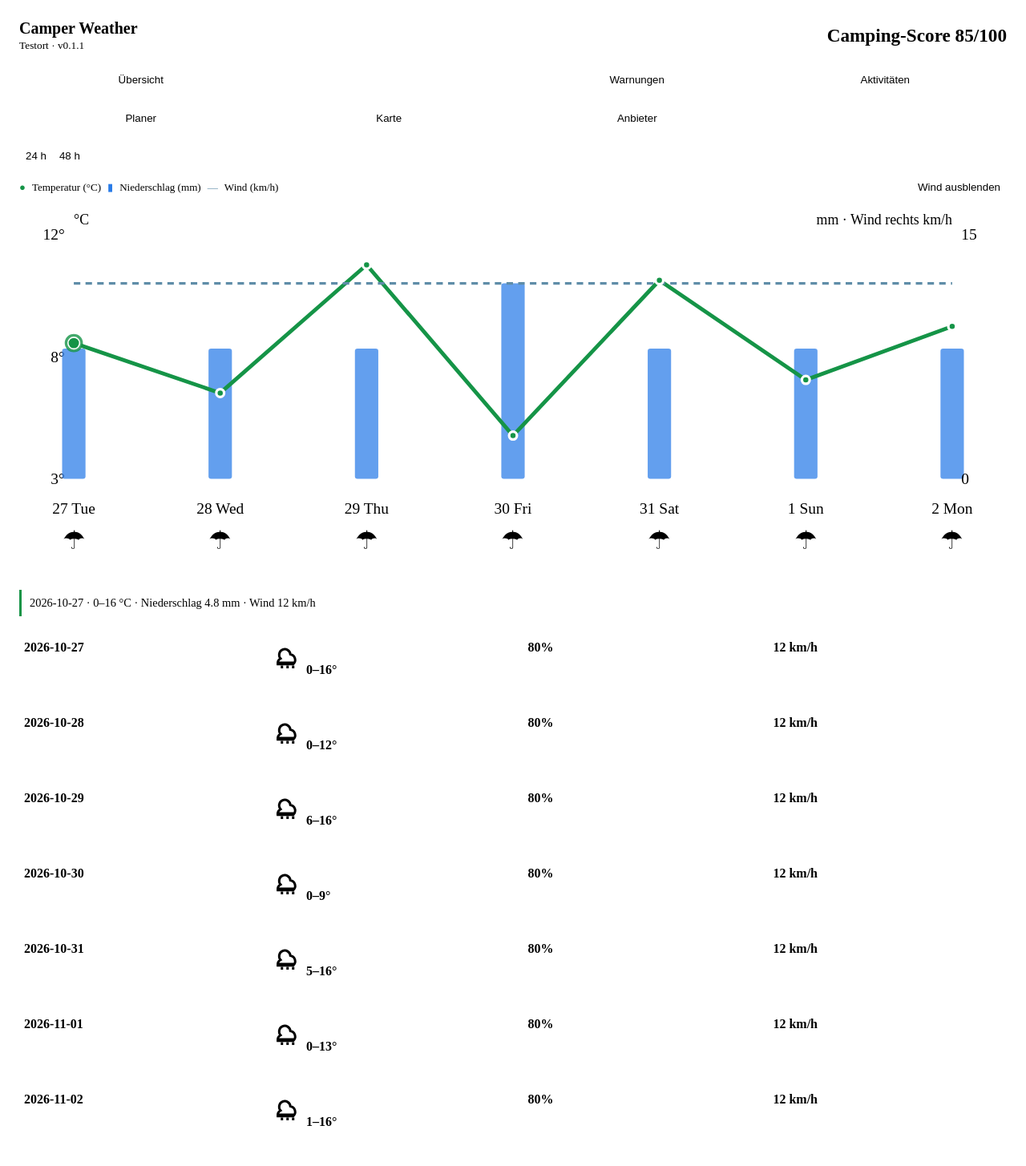
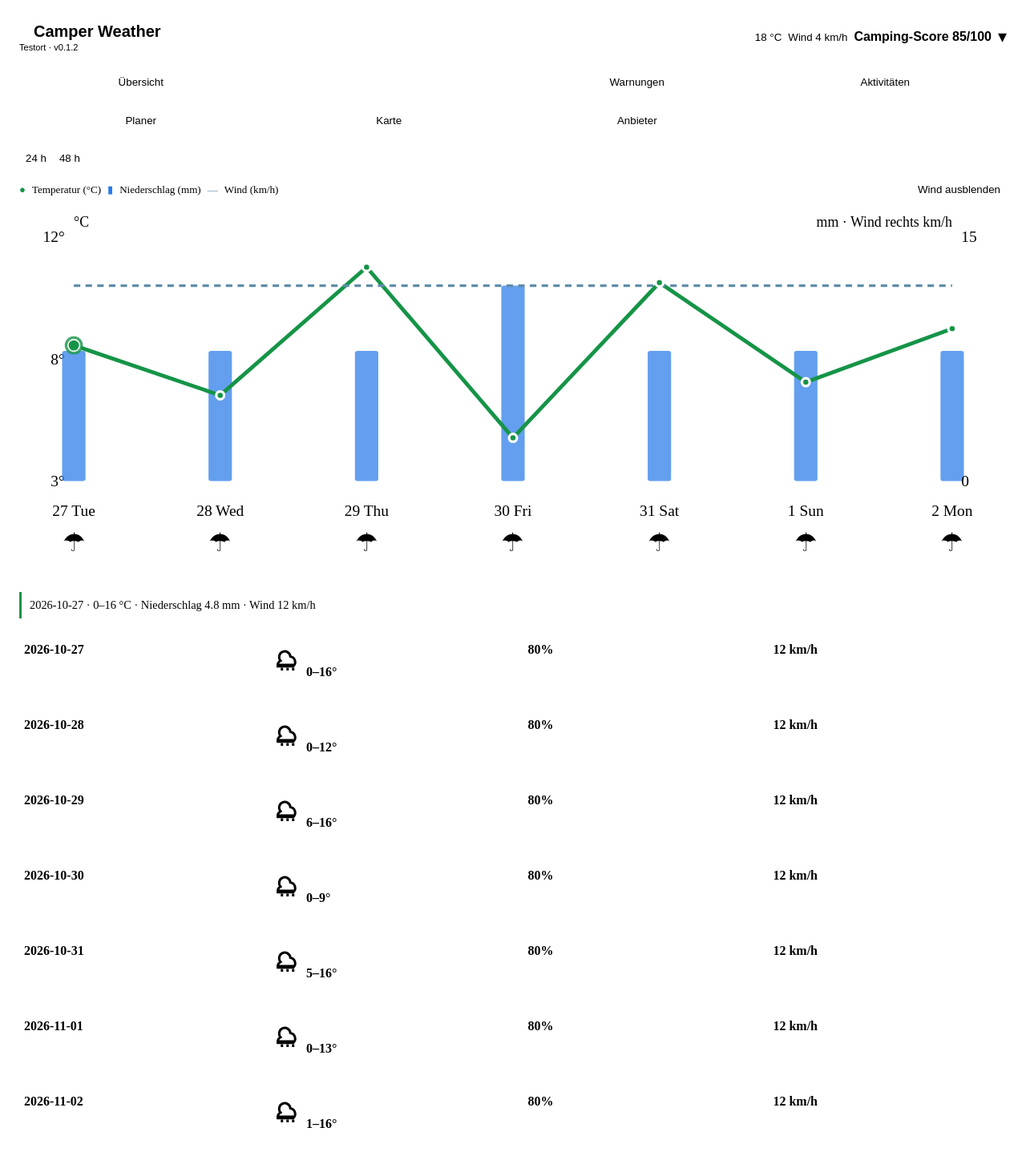
feat: add collapsed camper weather card

diff --git a/custom_components/camper_weather/www/camper-weather-card.js b/custom_components/camper_weather/www/camper-weather-card.js
@@ -1,5 +1,5 @@
-/* Camper Weather card v0.1.1. No credentials or GPS history are stored here. */
-const VERSION = "0.1.1";
+/* Camper Weather card v0.1.2. No credentials or GPS history are stored here. */
+const VERSION = "0.1.2";
 const CARD_TYPE = "camper-weather-card";
 const TABS = ["Übersicht", "Vorhersage", "Warnungen", "Aktivitäten", "Planer", "Karte", "Anbieter"];
 const ACTIVITIES = [["walking", "Spazieren"], ["hiking", "Wandern"], ["cycling", "Fahrrad"], ["ebike", "E-Bike"], ["jogging", "Joggen"], ["skiing", "Skifahren"], ["swimming", "Schwimmen"], ["barbecue", "Grillen"], ["fishing", "Angeln"]];
@@ -31,7 +31,7 @@ const loadMapLibre = () => {
 class CamperWeatherCard extends HTMLElement {
   static getConfigElement() { return document.createElement("camper-weather-card-editor"); }
   static getStubConfig() { return {}; }
-  setConfig(config) { this.config = {...config}; this._tabIndex = Number.isInteger(this._tabIndex) ? this._tabIndex : Number(config.default_view || 0); this._draft = this._draft || {}; this._ensureShell(); }
+  setConfig(config) { this.config = {...config}; this._tabIndex = Number.isInteger(this._tabIndex) ? this._tabIndex : Number(config.default_view || 0); this._draft = this._draft || {}; if (this._expanded == null) this._expanded = false; this._ensureShell(); }
   set hass(value) {
     const connectionChanged = this._hass?.connection !== value?.connection;
     this._hass = value;
@@ -65,14 +65,17 @@ class CamperWeatherCard extends HTMLElement {
     if (state.active) queueMicrotask(() => this.querySelector(`[data-state-key="${CSS.escape(state.active)}"]`)?.focus({preventScroll:true}));
   }
   _isEditing() { const active = document.activeElement; return Boolean(active && this.contains(active) && active.matches("input,select,textarea")); }
+  _toggleExpanded() { this._expanded = !this._expanded; if (!this._expanded) this._destroyMap(); this._ensureShell(); }
+  _compactStatus(data) { const status = data?.safety_status; return ["green", "yellow", "orange", "red"].includes(status) ? status : "gray"; }
   _ensureShell() {
     if (!this.config) return;
     if (!this.querySelector(".wrap")) {
-      this.innerHTML = `<ha-card><div class="wrap"><header><div><h2>Camper Weather</h2><small class="subtitle"></small></div><strong class="score"></strong></header><nav class="nav"></nav><select class="mobile-nav" aria-label="Ansicht"></select><section class="panel"></section></div></ha-card>`;
+      this.innerHTML = `<ha-card><div class="wrap"><button type="button" class="card-header" data-card-toggle aria-expanded="false"><span class="card-heading"><span class="card-title"><span class="status-dot" aria-hidden="true"></span><h2>Camper Weather</h2></span><small class="subtitle"></small></span><span class="card-summary"><span class="summary-temperature"></span><span class="summary-wind"></span><strong class="score"></strong><span class="expand-icon" aria-hidden="true">▸</span></span></button><div class="card-body" hidden><nav class="nav"></nav><select class="mobile-nav" aria-label="Ansicht"></select><section class="panel"></section></div></div></ha-card>`;
       this._style(); this.addEventListener("click", (event) => this._click(event)); this.addEventListener("change", (event) => this._change(event)); this.addEventListener("input", (event) => this._input(event)); this.addEventListener("keydown", (event) => this._keydown(event));
       const beginInteraction = (event) => {
         const control = event.target.closest?.("select,input,textarea,summary,button");
         if (!control) return;
+        if (control.matches("[data-card-toggle]")) return;
         if (this._activeNativeSelect && this._activeNativeSelect !== control) this._finishNativeSelect(this._activeNativeSelect);
         if (this._activeTextInput && this._activeTextInput !== control && !control.matches("button")) this._finishTextInput(this._activeTextInput);
         this._interactionLock = true;
@@ -98,8 +101,17 @@ class CamperWeatherCard extends HTMLElement {
       this.addEventListener("pointercancel", (event) => { const control = event.target.closest?.("select"); if (control === this._activeNativeSelect) this._finishNativeSelect(control); });
     }
     const data = this._data || {};
+    const current = data.current || {};
+    const expanded = Boolean(this._expanded);
     this.querySelector(".subtitle").textContent = `${data.name || "Wetter"} · v${VERSION}`;
+    this.querySelector(".summary-temperature").textContent = `${current.temperature == null ? "—" : `${current.temperature} °C`}`;
+    this.querySelector(".summary-wind").textContent = `Wind ${current.wind == null ? "—" : `${current.wind} km/h`}`;
     this.querySelector(".score").textContent = `Camping-Score ${data.camping_score ?? "—"}/100`;
+    this.querySelector(".status-dot").className = `status-dot status-${this._compactStatus(data)}`;
+    const toggle = this.querySelector("[data-card-toggle]"); toggle.setAttribute("aria-expanded", String(expanded)); toggle.setAttribute("aria-label", expanded ? "Camper Weather einklappen" : "Camper Weather ausklappen");
+    this.querySelector(".expand-icon").textContent = expanded ? "▾" : "▸";
+    const body = this.querySelector(".card-body"); body.hidden = !expanded;
+    if (!expanded) return;
     const visible = this.config.visible_views || TABS.map((_, index) => index);
     const navKey = `${visible.join(",")}:${this._tabIndex}`;
     if (navKey !== this._navKey) {
@@ -110,6 +122,7 @@ class CamperWeatherCard extends HTMLElement {
     this._renderPanel();
   }
   _click(event) {
+    if (event.target.closest("[data-card-toggle]")) { this._toggleExpanded(); return; }
     const tab = event.target.closest("[data-tab]"); if (tab) { this._switchTab(Number(tab.dataset.tab)); return; }
     if (event.target.matches("[data-tab-select]")) { this._switchTab(Number(event.target.value)); return; }
     if (event.target.matches("[data-radar-frame]")) { this._radarIndex = Number(event.target.dataset.radarFrame); this._updateRadarLayer(); this._updateRadarControls(); return; }
@@ -155,6 +168,7 @@ class CamperWeatherCard extends HTMLElement {
   _destroyMap() { clearTimeout(this._mapTimeout); clearTimeout(this._radarTimer); if (this._mapResizeObserver) this._mapResizeObserver.disconnect(); if (this._mapMarker) { this._mapMarker.remove(); this._mapMarker = null; } if (this._mapInstance) { this._mapInstance.remove(); this._mapInstance = null; } this._mapRadarKey = null; }
   _renderPanel() {
     const panel = this.querySelector(".panel"); if (!panel) return;
+    if (!this._expanded) return;
     if (this._isEditing() || this._interactionLock || this._nativeSelectOpen) { this._renderPending = true; return; }
     const uiState = this._captureUiState();
     const previousTab = this._renderedTab;
@@ -293,7 +307,7 @@ class CamperWeatherCard extends HTMLElement {
   _chartTooltip(item) { const date = item.daily ? this._forecastDateKey(item.time) : `${this._forecastDateKey(item.time)} ${this._forecastTimeLabel(item.time)}`; const temperature = item.daily && item.temperature_min != null ? `${Math.round(item.temperature_min)}–${Math.round(item.temperature_max)} °C` : `${item.temperature == null ? "—" : Math.round(item.temperature)} °C`; return `${date} · ${temperature} · Niederschlag ${item.precipitation == null ? "—" : Number(item.precipitation).toFixed(1)} mm · Wind ${item.wind == null ? "—" : Math.round(item.wind)} km/h`;
   }
   _forecast(d) { const range = this._forecastRange || 24; const rows = this._forecastRows(d, range); const direct = range === 168 ? rows : rows.slice(0, 8); const rest = range === 168 ? [] : rows.slice(8); const row = (item, index) => `<details data-ui-key="forecast-${esc(item.time || index)}"><summary><span>${item.daily ? this._forecastDateKey(item.time) : this._forecastTimeLabel(item.time)}</span><b>${this._weatherIcon(item.weather_code, item.is_day)} ${item.daily && item.temperature_min != null ? `${Math.round(item.temperature_min)}–${Math.round(item.temperature_max)}°` : `${esc(item.temperature)}°`}</b><span>💧 ${esc(item.probability ?? "—")}%</span><span>💨 ${esc(item.wind ?? "—")} km/h</span></summary><p>Niederschlag ${item.precipitation == null ? "—" : `${Number(item.precipitation).toFixed(1)} mm`} · Camping ${esc(item.score ?? "—")}/100</p></details>`; return `<div class="range-buttons"><button data-forecast-range="24" class="${range === 24 ? "active" : ""}">24 h</button><button data-forecast-range="48" class="${range === 48 ? "active" : ""}">48 h</button><button data-forecast-range="168" class="${range === 168 ? "active" : ""}">7 Tage</button></div>${this._forecastChart(rows, range)}<div class="compact-forecast">${direct.map(row).join("") || "Keine Prognosedaten."}${rest.length ? `<details data-ui-key="forecast-more"><summary>Weitere Stunden anzeigen (${rest.length})</summary>${rest.map(row).join("")}</details>` : ""}</div>`; }
-  _style() { if (this.querySelector("style")) return; const style = document.createElement("style"); style.textContent = `:host{display:block}.wrap{padding:16px;overflow:hidden}header{display:flex;justify-content:space-between;align-items:center;gap:12px}h2{margin:0;font-size:1.25rem}.score{font-size:1.45rem;color:var(--primary-color)}small,.muted{color:var(--secondary-text-color)}.nav{display:grid;grid-template-columns:repeat(4,minmax(0,1fr));gap:6px;margin:14px 0 10px}.nav button{min-width:0;white-space:normal;line-height:1.15;min-height:42px}.mobile-nav{display:none;width:100%;margin:12px 0}.nav button,.range-buttons button,.radar-controls button,button{border:1px solid var(--divider-color);background:var(--secondary-background-color);color:var(--primary-text-color);border-radius:8px;padding:8px;cursor:pointer}.nav button.active,.range-buttons button.active,.radar-controls button.active{background:var(--primary-color);color:var(--text-primary-color,#fff)}.hero{display:grid;grid-template-columns:auto 1fr 1fr;gap:8px;align-items:center}.weather-icon{font-size:2rem;color:var(--primary-color)}.weather-glyph{width:42px;height:42px}.temp{font-size:2.2rem;font-weight:600;grid-column:span 2}.assessment-grid{display:grid;grid-template-columns:repeat(2,minmax(0,1fr));gap:8px;margin-top:10px}.assessment{padding:10px;border-radius:8px;background:var(--secondary-background-color);display:grid;gap:4px}.assessment strong{display:block}.safety-red{border-left:4px solid var(--error-color,#b3261e)}.safety-orange,.safety-yellow{border-left:4px solid var(--warning-color,#a15c00)}.safety-gray{border-left:4px solid var(--secondary-text-color)}.next-risk{overflow-wrap:anywhere}.chips{display:flex;flex-wrap:wrap;gap:6px;margin-top:10px}.risk,.warning,.recommendation,.plan{padding:10px;margin:7px 0;border-radius:8px;background:var(--secondary-background-color)}details{margin:10px 0}summary{cursor:pointer;font-weight:600;padding:6px 0}.risk.critical,.bad,.error{color:var(--error-color,#b3261e)}.forecast-toolbar{display:flex;align-items:center;justify-content:space-between;gap:8px;flex-wrap:wrap;margin:8px 0}.chart-legend{display:flex;gap:8px;flex-wrap:wrap;font-size:.82rem}.legend-temp{color:#159447}.legend-rain{color:#287be8}.legend-wind{color:#5f8da8}.chart-wrap{width:100%;overflow:hidden;background:var(--secondary-background-color);border-radius:8px}.chart-wrap svg{display:block;width:100%;height:auto;min-height:220px}.chart-grid{stroke:var(--divider-color);stroke-width:1;opacity:.65}.chart-label,.axis-title{fill:var(--secondary-text-color);font-size:12px}.axis-title{font-size:11px}.chart-icon{font-size:20px}.temp-line{fill:none;stroke:#159447;stroke-width:3;stroke-linecap:round;stroke-linejoin:round}.rain-bar{fill:#287be8;opacity:.72}.wind-line{fill:none;stroke:#5f8da8;stroke-width:2;stroke-dasharray:5 4}.chart-point{cursor:pointer;outline:none}.temp-point{fill:#159447;stroke:var(--card-background-color,#fff);stroke-width:2}.chart-point:focus .temp-point,.chart-point:hover .temp-point{r:5}.chart-selected{fill:none;stroke:#159447;stroke-width:2;opacity:.8}.chart-tooltip{padding:8px 10px;margin-top:6px;border-left:3px solid #159447;background:var(--secondary-background-color);font-size:.9rem}.compact-forecast{display:grid;gap:4px;margin-top:8px}.compact-forecast details{border-bottom:1px solid var(--divider-color);padding:6px}.compact-forecast>details{border-bottom:0}.compact-forecast>details>details:last-child{border-bottom:0}.compact-forecast summary{display:grid;grid-template-columns:1fr 1fr 1fr 1fr;gap:4px;cursor:pointer}.score-pill{float:right;font-weight:600}.good{color:var(--success-color,#188038)}.warn{color:var(--warning-color,#a15c00)}.unknown{color:var(--secondary-text-color)}.form{display:grid;grid-template-columns:repeat(2,minmax(0,1fr));gap:10px}.form label{display:grid;gap:4px}select,input{border:1px solid var(--divider-color);background:var(--secondary-background-color);color:var(--primary-text-color);border-radius:8px;padding:8px;min-width:0}.location-search{display:flex;gap:6px;margin-top:8px}.location-search input{flex:1}.location-results{display:grid;gap:5px;margin-top:6px}.map-container{height:320px;border-radius:10px;overflow:hidden;background:var(--secondary-background-color)}.map-loading,.map-fallback{display:grid;place-content:center;height:100%;text-align:center;padding:12px}.map-attribution{font-size:.75rem;margin-top:4px;color:var(--secondary-text-color)}.radar-controls{display:flex;align-items:center;gap:6px;flex-wrap:wrap;margin-top:8px}.radar-controls input{width:110px}.provider-list{display:grid;gap:7px}.provider-list article{display:grid;grid-template-columns:1fr auto;gap:4px;padding:10px;border-radius:8px;background:var(--secondary-background-color)}.provider-list small{grid-column:1/-1}@media(max-width:700px){.wrap{padding:12px}.nav{grid-template-columns:repeat(2,minmax(0,1fr))}.assessment-grid{grid-template-columns:1fr}.mobile-nav{display:none}.form{grid-template-columns:1fr}.compact-forecast summary{grid-template-columns:1fr 1fr}.compact-forecast summary span:nth-child(n+3){display:none}.chart-legend{font-size:.74rem;gap:5px}.chart-wrap svg{min-height:205px}.map-container{height:280px}}`; this.appendChild(style); }
+  _style() { if (this.querySelector("style")) return; const style = document.createElement("style"); style.textContent = `:host{display:block}.wrap{padding:16px;overflow:hidden}.card-header{width:100%;display:flex;justify-content:space-between;align-items:center;gap:12px;text-align:left;border:0;background:transparent;color:var(--primary-text-color);padding:0;min-height:44px}.card-heading,.card-summary,.card-title{display:flex;align-items:center;gap:8px;min-width:0}.card-heading{display:grid;gap:2px}.card-title h2{margin:0;font-size:1.25rem}.card-summary{justify-content:flex-end;flex-wrap:wrap}.card-summary>span,.card-summary>strong{white-space:nowrap}.expand-icon{font-size:1.35rem;color:var(--secondary-text-color);line-height:1}.status-dot{width:10px;height:10px;flex:none;border-radius:50%;background:var(--secondary-text-color)}.status-green{background:var(--success-color,#188038)}.status-yellow{background:#d99b00}.status-orange{background:#e06b00}.status-red{background:var(--error-color,#b3261e)}.status-gray{background:var(--secondary-text-color)}.score{font-size:1rem;color:var(--primary-color)}small,.muted{color:var(--secondary-text-color)}.nav{display:grid;grid-template-columns:repeat(4,minmax(0,1fr));gap:6px;margin:14px 0 10px}.nav button{min-width:0;white-space:normal;line-height:1.15;min-height:42px}.mobile-nav{display:none;width:100%;margin:12px 0}.nav button,.range-buttons button,.radar-controls button,button{border:1px solid var(--divider-color);background:var(--secondary-background-color);color:var(--primary-text-color);border-radius:8px;padding:8px;cursor:pointer}.card-header{border:0;background:transparent;padding:0}.nav button.active,.range-buttons button.active,.radar-controls button.active{background:var(--primary-color);color:var(--text-primary-color,#fff)}.hero{display:grid;grid-template-columns:auto 1fr 1fr;gap:8px;align-items:center}.weather-icon{font-size:2rem;color:var(--primary-color)}.weather-glyph{width:42px;height:42px}.temp{font-size:2.2rem;font-weight:600;grid-column:span 2}.assessment-grid{display:grid;grid-template-columns:repeat(2,minmax(0,1fr));gap:8px;margin-top:10px}.assessment{padding:10px;border-radius:8px;background:var(--secondary-background-color);display:grid;gap:4px}.assessment strong{display:block}.safety-red{border-left:4px solid var(--error-color,#b3261e)}.safety-orange,.safety-yellow{border-left:4px solid var(--warning-color,#a15c00)}.safety-gray{border-left:4px solid var(--secondary-text-color)}.next-risk{overflow-wrap:anywhere}.chips{display:flex;flex-wrap:wrap;gap:6px;margin-top:10px}.risk,.warning,.recommendation,.plan{padding:10px;margin:7px 0;border-radius:8px;background:var(--secondary-background-color)}details{margin:10px 0}summary{cursor:pointer;font-weight:600;padding:6px 0}.risk.critical,.bad,.error{color:var(--error-color,#b3261e)}.forecast-toolbar{display:flex;align-items:center;justify-content:space-between;gap:8px;flex-wrap:wrap;margin:8px 0}.chart-legend{display:flex;gap:8px;flex-wrap:wrap;font-size:.82rem}.legend-temp{color:#159447}.legend-rain{color:#287be8}.legend-wind{color:#5f8da8}.chart-wrap{width:100%;overflow:hidden;background:var(--secondary-background-color);border-radius:8px}.chart-wrap svg{display:block;width:100%;height:auto;min-height:220px}.chart-grid{stroke:var(--divider-color);stroke-width:1;opacity:.65}.chart-label,.axis-title{fill:var(--secondary-text-color);font-size:12px}.axis-title{font-size:11px}.chart-icon{font-size:20px}.temp-line{fill:none;stroke:#159447;stroke-width:3;stroke-linecap:round;stroke-linejoin:round}.rain-bar{fill:#287be8;opacity:.72}.wind-line{fill:none;stroke:#5f8da8;stroke-width:2;stroke-dasharray:5 4}.chart-point{cursor:pointer;outline:none}.temp-point{fill:#159447;stroke:var(--card-background-color,#fff);stroke-width:2}.chart-point:focus .temp-point,.chart-point:hover .temp-point{r:5}.chart-selected{fill:none;stroke:#159447;stroke-width:2;opacity:.8}.chart-tooltip{padding:8px 10px;margin-top:6px;border-left:3px solid #159447;background:var(--secondary-background-color);font-size:.9rem}.compact-forecast{display:grid;gap:4px;margin-top:8px}.compact-forecast details{border-bottom:1px solid var(--divider-color);padding:6px}.compact-forecast>details{border-bottom:0}.compact-forecast>details>details:last-child{border-bottom:0}.compact-forecast summary{display:grid;grid-template-columns:1fr 1fr 1fr 1fr;gap:4px;cursor:pointer}.score-pill{float:right;font-weight:600}.good{color:var(--success-color,#188038)}.warn{color:var(--warning-color,#a15c00)}.unknown{color:var(--secondary-text-color)}.form{display:grid;grid-template-columns:repeat(2,minmax(0,1fr));gap:10px}.form label{display:grid;gap:4px}select,input{border:1px solid var(--divider-color);background:var(--secondary-background-color);color:var(--primary-text-color);border-radius:8px;padding:8px;min-width:0}.location-search{display:flex;gap:6px;margin-top:8px}.location-search input{flex:1}.location-results{display:grid;gap:5px;margin-top:6px}.map-container{height:320px;border-radius:10px;overflow:hidden;background:var(--secondary-background-color)}.map-loading,.map-fallback{display:grid;place-content:center;height:100%;text-align:center;padding:12px}.map-attribution{font-size:.75rem;margin-top:4px;color:var(--secondary-text-color)}.radar-controls{display:flex;align-items:center;gap:6px;flex-wrap:wrap;margin-top:8px}.radar-controls input{width:110px}.provider-list{display:grid;gap:7px}.provider-list article{display:grid;grid-template-columns:1fr auto;gap:4px;padding:10px;border-radius:8px;background:var(--secondary-background-color)}.provider-list small{grid-column:1/-1}@media(max-width:700px){.wrap{padding:12px}.card-header{align-items:flex-start}.card-summary{justify-content:flex-start;gap:5px}.card-summary>span,.card-summary>strong{white-space:normal}.nav{grid-template-columns:repeat(2,minmax(0,1fr))}.assessment-grid{grid-template-columns:1fr}.mobile-nav{display:none}.form{grid-template-columns:1fr}.compact-forecast summary{grid-template-columns:1fr 1fr}.compact-forecast summary span:nth-child(n+3){display:none}.chart-legend{font-size:.74rem;gap:5px}.chart-wrap svg{min-height:205px}.map-container{height:280px}}`; this.appendChild(style); }
 }
 
 class CamperWeatherCardEditor extends HTMLElement {

diff --git a/frontend/collapsible-fixture.html b/frontend/collapsible-fixture.html
@@ -1,0 +1,14 @@
+<!doctype html><meta charset="utf-8"><title>Camper Weather collapsible fixture</title>
+<camper-weather-card></camper-weather-card>
+<script src="/custom_components/camper_weather/www/camper-weather-card.js"></script>
+<script>
+  const card = document.querySelector("camper-weather-card");
+  let snapshot = {entry_id:"fixture", name:"Wohnmobil", current:{temperature:9.9, wind:7}, camping_score:95, safety_status:"green", location:{latitude:49.2,longitude:7.0,source:"tracker"}, forecast:[], radar:{frames:[]}, recommendations:{}, risks:[], warnings:[], provider_status:{}, sources:[], errors:[], updated_at:new Date().toISOString()};
+  window.__setSnapshot = (next) => { snapshot = {...snapshot, ...next}; };
+  card.setConfig({entry_id:"fixture", default_view:0});
+  card.hass = {connection:{}, callWS: async (msg) => {
+    if (msg.type === "camper_weather/card_data") return snapshot;
+    if (msg.type === "camper_weather/location/get") return {current:{mode:"tracker"}, active:snapshot.location, destinations:[]};
+    return [];
+  }};
+</script>

diff --git a/frontend/location-fixture.html b/frontend/location-fixture.html
@@ -9,6 +9,7 @@
   window.__calls = [];
   const data = () => ({entry_id:"fixture", current:{temperature:18, apparent_temperature:18, weather_code:1, wind:4, gusts:8}, camping_score:85, location:{mode, latitude:mode === "home_zone" ? 50.1 : mode === "manual" ? 48.1 : 52.5, longitude:mode === "home_zone" ? 8.6 : mode === "manual" ? 11.6 : 13.4, source:mode, diagnostic:{status:"valid"}}, forecast:[], radar:{frames:[]}, recommendations:{}, risks:[], warnings:[], provider_status:{}, sources:[], errors:[], updated_at:new Date().toISOString(), location_revision:1});
   card.setConfig({entry_id:"fixture", default_view:0});
+  card._expanded = true;
   card.hass = {connection:{}, callWS: async (msg) => {
     window.__calls.push({...msg});
     if (msg.type === "camper_weather/card_data") return data();

diff --git a/frontend/forecast-fixture.html b/frontend/forecast-fixture.html
@@ -16,6 +16,7 @@
     score: 80,
   }));
   card.setConfig({default_view:1});
+  card._expanded = true;
   card._data = {entry_id:"fixture", name:"Testort", current:{temperature:18, apparent_temperature:18, weather_code:1, wind:4, gusts:8}, camping_score:85, location:{latitude:52.52,longitude:13.405,source:"tracker"}, forecast, radar:{frames:[]}, recommendations:{}, risks:[],warnings:[],provider_status:{},sources:["open_meteo"],errors:[],updated_at:new Date().toISOString()};
   card._hass = {connection:{}, callWS: async () => ({entry_id:"fixture", current:{mode:"tracker"}, active:{latitude:52.52,longitude:13.405,source:"tracker"}, destinations:[]})};
   card._ensureShell();

diff --git a/frontend/fixture.html b/frontend/fixture.html
@@ -4,6 +4,7 @@
 <script type="module">
   const card = document.querySelector("camper-weather-card");
   card.setConfig({default_view: 5});
+  card._expanded = true;
   card.hass = {connection: {}, callWS: async (msg) => {
     if (msg.type === "camper_weather/location/get") return {current: {mode:"tracker"}, active: {latitude: 52.52, longitude: 13.405, source:"tracker"}, destinations: []};
     if (msg.type === "camper_weather/list_entries") return [];

diff --git a/tests/test_contracts.py b/tests/test_contracts.py
@@ -5,7 +5,7 @@ from custom_components.camper_weather.const import CARD_VERSION, RAINVIEWER_URL,
 
 def test_backend_and_card_versions_match():
     card = Path("custom_components/camper_weather/www/camper-weather-card.js").read_text()
-    assert VERSION == CARD_VERSION == "0.1.1"
+    assert VERSION == CARD_VERSION == "0.1.2"
     assert f'const VERSION = "{VERSION}"' in card
     assert "tile.openstreetmap.org" not in card
     assert "openfreemap.org/styles/liberty" in card

diff --git a/custom_components/camper_weather/const.py b/custom_components/camper_weather/const.py
@@ -4,7 +4,7 @@ from __future__ import annotations
 from homeassistant.const import Platform
 
 DOMAIN = "camper_weather"
-VERSION = "0.1.1"
+VERSION = "0.1.2"
 CARD_VERSION = VERSION
 CARD_PATH = "/camper_weather/camper-weather-card.js"
 PLATFORMS = [Platform.SENSOR, Platform.BINARY_SENSOR, Platform.WEATHER]

diff --git a/README.md b/README.md
@@ -2,7 +2,7 @@
 
 **Wetterplanung, Warnungen und Freizeitplanung für Wohnmobile in Home Assistant.**
 
-> **v0.1.1 Stable** erweitert die stabile Veröffentlichung um ein fachlich getrenntes Wetterdiagramm für Temperatur, Niederschlag und Wind.
+> **v0.1.2 Stable** ergänzt eine kompakte, standardmäßig eingeklappte Lovelace-Karte. Ein Klick zeigt die vollständige Wetteroberfläche.
 
 ![Camper Weather – Produktübersicht](docs/assets/camper-weather-overview.png)
 
@@ -24,7 +24,7 @@
 ## Installation über HACS
 
 1. In Home Assistant **HACS → Integrationen** öffnen.
-2. Nach **Camper Weather** suchen und die stabile Version `v0.1.1` installieren.
+2. Nach **Camper Weather** suchen und die stabile Version `v0.1.2` installieren.
 3. **Einstellungen → Geräte & Dienste → Integration hinzufügen** öffnen.
 4. **Camper Weather** auswählen und Wetteranbieter, Standortquelle und Aktualisierungsintervall konfigurieren.
 5. Eine Lovelace-Karte über den Karten-Editor hinzufügen. Die Integration registriert die Kartenressource automatisch.
@@ -52,6 +52,8 @@ entry_id: YOUR_CONFIG_ENTRY_ID
 ```
 
 Die `entry_id` ist nur erforderlich, wenn mehrere Camper-Weather-Einträge vorhanden sind. Die Karte enthält Übersicht, Vorhersage, Warnungen, Aktivitäten, Planer, Karte und Anbieterstatus. Native Auswahlfelder und Eingabefelder bleiben während Home-Assistant-State-Updates stabil.
+
+Beim Laden des Dashboards erscheint die Karte zunächst kompakt und eingeklappt mit Temperatur, Wind, Camping-Score und Sicherheitsfarbe. Der Kartenkopf bleibt sichtbar; ein Klick öffnet oder schließt die vollständige Oberfläche. Im eingeklappten Zustand werden keine Karte, kein Radar und keine Diagramme initialisiert.
 
 ## Status, Scores und Vorhersage
 
@@ -116,7 +118,7 @@ Camper Weather steht unter der im Repository enthaltenen [Lizenz](LICENSE). Dank
 
 ## English
 
-Camper Weather is a Home Assistant integration for camper weather, warnings, comfort and outdoor planning. **v0.1.1 Stable** adds a data-correct temperature, precipitation and wind chart while keeping the stable integration boundaries.
+Camper Weather is a Home Assistant integration for camper weather, warnings, comfort and outdoor planning. **v0.1.2 Stable** adds a compact, collapsed-by-default Lovelace card that expands to the complete weather interface on click.
 
 It provides 24-hour, 48-hour and 7-day forecasts, separate safety and comfort indicators, DWD warning geography, tracker/Home/manual/destination locations, a target-aware activity planner, MapLibre and RainViewer. Install it through HACS, configure the integration from **Settings → Devices & services**, and add the `custom:camper-weather-card` Lovelace card. See the [English user guide](docs/USER_GUIDE_EN.md) and [English installation guide](docs/INSTALLATION_EN.md).
 
@@ -126,4 +128,4 @@ The supplied overview image is a marketing/product overview graphic, not a singl
 
 - Website: https://www.smartcamper765.de
 - Repository: https://github.com/balronu/ha-camper-weather
-- Stable release: https://github.com/balronu/ha-camper-weather/releases/tag/v0.1.1
+- Stable release: https://github.com/balronu/ha-camper-weather/releases/tag/v0.1.2

diff --git a/CHANGELOG.md b/CHANGELOG.md
@@ -1,5 +1,25 @@
 # Changelog
 
+## [0.1.2] – 2026-10-27
+
+### Deutsch
+
+- Camper Weather startet in Lovelace jetzt als kompakte, einklappbare Statuskarte mit Titel, Sicherheitsfarbe, Temperatur, Wind und Camping-Score.
+- Ein Klick auf den Kartenkopf öffnet alle sieben bestehenden Bereiche; ein weiterer Klick klappt sie wieder ein.
+- Home-Assistant-State-Updates verändern den Aufklappzustand nicht und aktualisieren die Kurzwerte ohne zusätzliche Wetterabfragen.
+- MapLibre, Radar und Diagramme werden im eingeklappten Zustand nicht initialisiert; bestehende Standort-, Planner-, Eingabe- und Dropdown-Regressionsschutzpfade bleiben erhalten.
+- Desktop- und Mobile-Chromium-Tests prüfen Initialzustand, Pointer-/Klickbedienung, State-Updates, fehlende Daten, Sicherheitsfarben und alle sieben Bereiche.
+
+### English
+
+- Camper Weather now starts in Lovelace as a compact collapsible status card with title, safety color, temperature, wind and camping score.
+- Clicking the card header opens all seven existing sections; clicking it again collapses the card.
+- Home Assistant state updates do not change the expanded state and update the compact values without additional weather requests.
+- MapLibre, radar and charts are not initialized while collapsed; existing location, planner, input and dropdown regression protections remain in place.
+- Desktop and mobile Chromium tests cover the initial state, pointer/click interaction, state updates, missing data, safety colors and all seven sections.
+
+WebKit/iPhone acceptance remains a manual follow-up because the host libraries required for the WebKit runner are unavailable. No productive Home Assistant installation or dashboard outside this card was changed.
+
 ## [0.1.1] – 2026-10-27
 
 ### Deutsch

diff --git a/docs/USER_GUIDE_DE.md b/docs/USER_GUIDE_DE.md
@@ -4,6 +4,12 @@
 
 Camper Weather verbindet Wettervorhersage, DWD-Warnungen, Camping-Score und Freizeitplanung in einer Lovelace-Karte. Sicherheit und Komfort werden bewusst getrennt dargestellt.
 
+Beim Laden ist die Karte kompakt eingeklappt und zeigt Temperatur, Wind, Camping-Score und einen farbigen Sicherheitsstatus. Tippe oder klicke auf den Kartenkopf, um die sieben Bereiche zu öffnen; der Kopf bleibt zum erneuten Einklappen sichtbar. State-Updates von Home Assistant verändern diesen Zustand nicht.
+
+![Echte eingeklappte Karte im Desktop-Browser](assets/camper-weather-collapsed-desktop.png)
+
+![Echte eingeklappte Karte in mobiler Breite](assets/camper-weather-collapsed-mobile.png)
+
 ## 2. Standort verwenden
 
 Wähle in der Übersicht **Wohnmobil-GPS**, **Zuhause**, **Manueller Ort** oder ein gespeichertes Reiseziel. Bei einem manuellen Ort den Namen eingeben, **Suchen** drücken oder Enter verwenden und anschließend ein eindeutiges Ergebnis auswählen. Der aktuelle globale Wetterstandort wird erst nach Auswahl eines Übersichtsergebnisses geändert.

diff --git a/docs/USER_GUIDE_EN.md b/docs/USER_GUIDE_EN.md
@@ -4,6 +4,12 @@
 
 Camper Weather combines weather forecasts, DWD warnings, camping score and activity planning in one Lovelace card. Safety and comfort are intentionally shown as separate assessments.
 
+The card loads in a compact collapsed state showing temperature, wind, camping score and a colored safety status. Tap or click the card header to open all seven sections; the header remains available to collapse it again. Home Assistant state updates do not change this state.
+
+![Actual collapsed card in a desktop browser](assets/camper-weather-collapsed-desktop.png)
+
+![Actual collapsed card at mobile width](assets/camper-weather-collapsed-mobile.png)
+
 ## 2. Choosing a location
 
 Choose **Motorhome GPS**, **Home**, **Manual location** or a saved destination. For a manual location, enter a place, press **Search** or use Enter, then select a unique result. The global weather location changes only after an overview result is selected.

diff --git a/docs/INSTALLATION_DE.md b/docs/INSTALLATION_DE.md
@@ -10,7 +10,7 @@
 
 1. HACS öffnen und **Integrationen** wählen.
 2. `Camper Weather` suchen.
-3. Die stabile Version `v0.1.1` installieren.
+3. Die stabile Version `v0.1.2` installieren.
 4. Home Assistant die Integration laden lassen.
 5. Unter **Einstellungen → Geräte & Dienste → Hinzufügen** `Camper Weather` auswählen.
 
